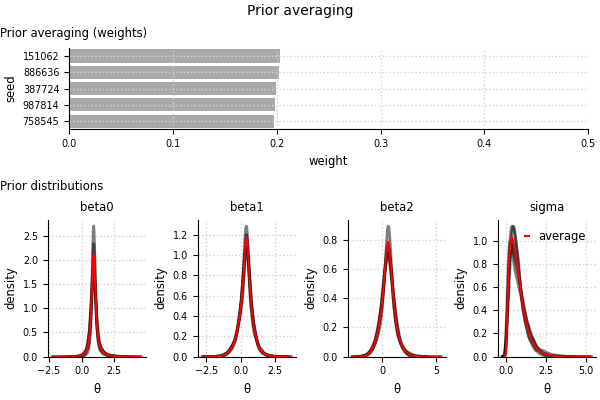
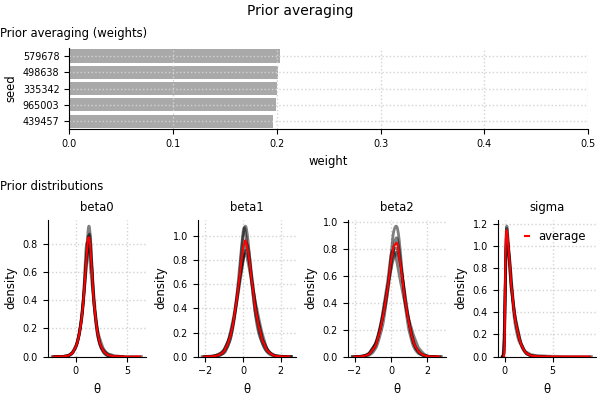
remove large file from cache

diff --git a/toy-examples/toy-example-2.py b/toy-examples/toy-example-2.py
@@ -17,8 +17,8 @@ class GenerativeModel:
         # data-generating model
         y = tfd.Normal(loc=mu, scale=sigma).sample()
         # selected observations per group
-        (y_gr0, y_gr1, y_gr2) = (y[:, :, i::] for i,j in zip(
-            [0,n_gr,2*n_gr],[n_gr,2*n_gr,-1]))
+        (y_gr0, y_gr1, y_gr2) = (y[:, :, i:i+30] for i in [0,30,60])
+
         return dict(y_gr0=y_gr0, y_gr1=y_gr1,
                     y_gr2=y_gr2, mu=mu, y=y)
 
@@ -143,7 +143,7 @@ optimizer_deep=el.optimizer(
 
 trainer_deep=el.trainer(
     method="deep_prior",
-    seed=2025,
+    seed=1234,
     epochs=800,
     progress=0
 )
@@ -192,7 +192,7 @@ el.plots.hyperparameter(eliobj_deep, figsize=(6,2), save_fig="saved_plots/hyperp
 el.plots.elicits(eliobj_deep, cols=5, figsize=(7,2),
                  save_fig="saved_plots/elicits_deep.png")
 #%%
-el.plots.prior_joint(eliobj_deep, save_fig="saved_plots/prior_joint_deep.png")
+el.plots.prior_joint(eliobj_deep, idx=list(range(5)), save_fig="saved_plots/prior_joint_deep.png")
 
 #%%
 el.plots.prior_marginals(eliobj_deep, figsize=(6,2),

diff --git a/toy-examples/toy-example-1.py b/toy-examples/toy-example-1.py
@@ -16,8 +16,7 @@ class GenerativeModel:
         # data-generating model
         y = tfd.Normal(loc=mu, scale=sigma).sample()
         # selected observations per group
-        (y_gr0, y_gr1, y_gr2) = (y[:, :, i::] for i,j in zip(
-            [0,n_gr,2*n_gr],[n_gr,2*n_gr,-1]))
+        (y_gr0, y_gr1, y_gr2) = (y[:, :, i:i+30] for i in [0,30,60])
         return dict(y_gr0=y_gr0, y_gr1=y_gr1,
                     y_gr2=y_gr2, mu=mu, y=y)
 
@@ -114,6 +113,7 @@ eliobj = el.Elicit(
 eliobj.fit(parallel=el.utils.parallel(runs=5))
 #%%
 eliobj.save(file="saved_eliobj/eliobj_param")
+#eliobj = el.utils.load(file="saved_eliobj/eliobj_param.pkl")
 #%%
 el.plots.loss(eliobj, figsize=(6,2), save_fig="saved_plots/loss_param.png")
 #%%
